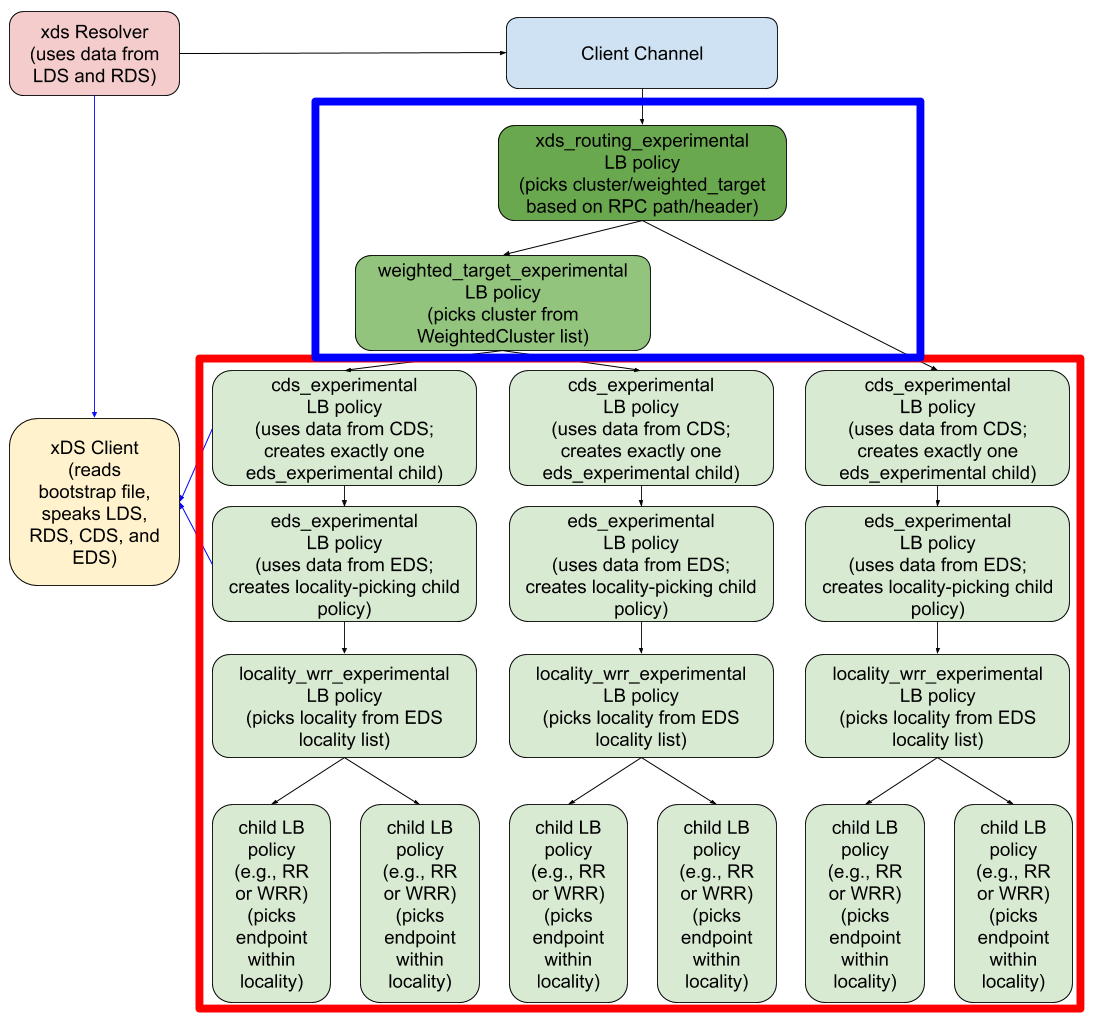
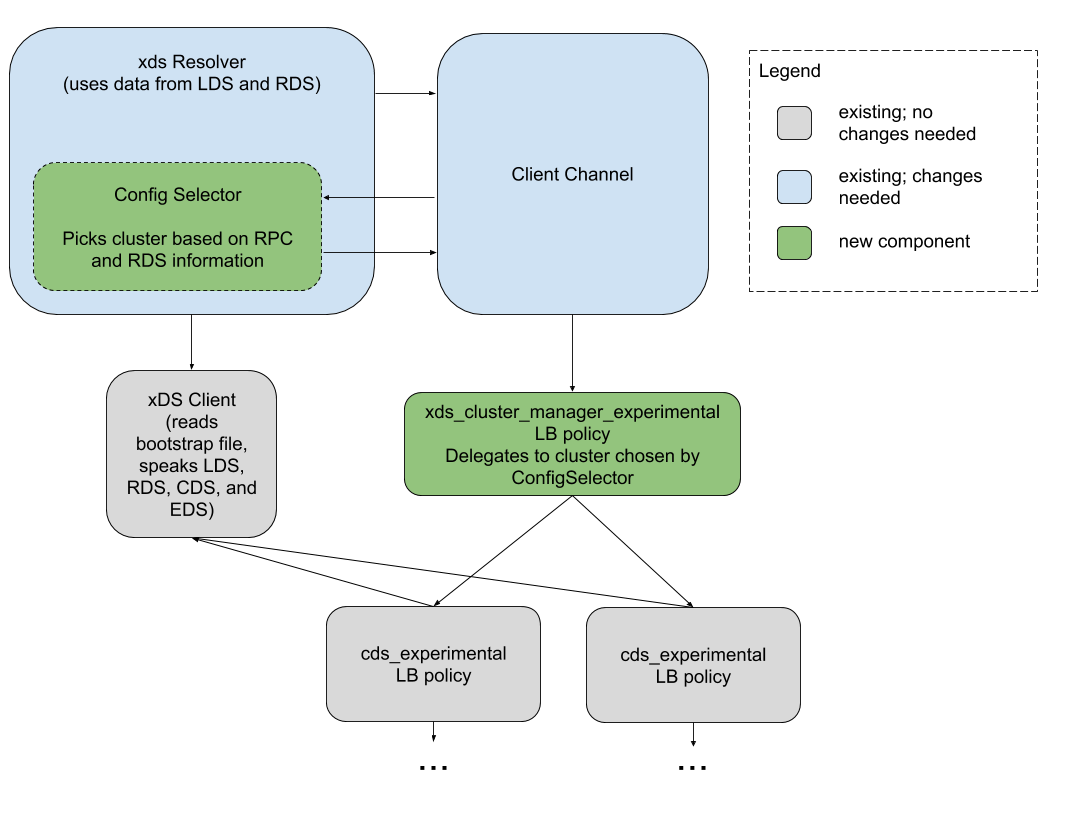
update graphic; address review comments

diff --git a/A31-xds-routeaction-support.md b/A31-xds-routeaction-support.md
@@ -30,7 +30,6 @@ the problem, as it could impact performance for all gRPC users, increase our API
 surface, and grow our code base for features we otherwise do not intend to
 implement.
 
-
 ## Proposal
 
 This proposal is broken up into two sections: the addition of new functionality
@@ -89,17 +88,22 @@ is chosen for an RPC, retry attempts will only use this cluster.  This matches
 Envoy behavior, and also supersedes the behavior specified in [gRFC
 A28](https://github.com/grpc/proposal/blob/master/A28-xds-traffic-splitting-and-routing.md).
 
-Because routing is happening in the Config Selector, the "xds_routing" Load
-Balancing Policy will no longer be needed.  Instead, the top-level Load
-Balancing Policy will be named "xds_cluster_manager", and will be a simple
-aggregator of child "cds" Load Balancing Policies.  The Load Balancing Config
-provided by the Resolver will be a [JSON
-representation](developers.google.com/protocol-buffers/docs/proto3#json) of the
-following proto message:
+Because routing is happening in the Config Selector, the "xds_routing"
+Load Balancing Policy will no longer be needed.  Instead, the
+top-level Load Balancing Policy will be named
+"xds_cluster_manager_experimental", and will be a simple aggregator of
+child "cds" Load Balancing Policies, although the config format allows
+for other types of child Load Balancing Policies for future-proofing.
+The Load Balancing Config provided by the Resolver will be a [JSON
+representation](developers.google.com/protocol-buffers/docs/proto3#json)
+of the following proto message:
 
 ```proto
-message XDSClusterManager {
-    repeated CDSConfig cds_config = 1;
+message XDSClusterManagerConfig {
+    message Child {
+      repeated LoadBalancingConfig child_policy = 1;
+    }
+    map<string, Child> children = 1;
 }
 ```
 
@@ -169,9 +173,11 @@ maximum RPC timeout for this route, with a default of 15s.
 
 If `max_grpc_timeout` is present, then `timeout` is ignored and
 `max_grpc_timeout` limits the maximum timeout for RPCs on this route.  A value
-of 0 indicates no limit should be applied.  In all cases, the RPC timeout set by
-the application may never be exceeded due to these settings.  For examples, see
-the following table:
+of 0 indicates no limit should be applied.
+
+In all cases, the RPC timeout set by the application may never be
+exceeded due to these settings.  For examples, see the following
+table:
 
 Application Deadline | `max_grpc_timeout` | `timeout` | Effective Timeout
 -------------------- | ------------------ | --------- | -----------------
